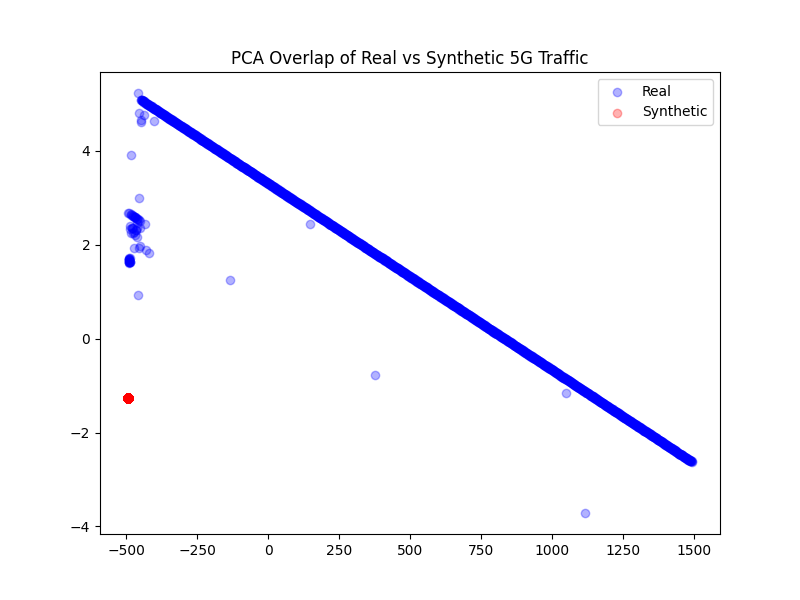
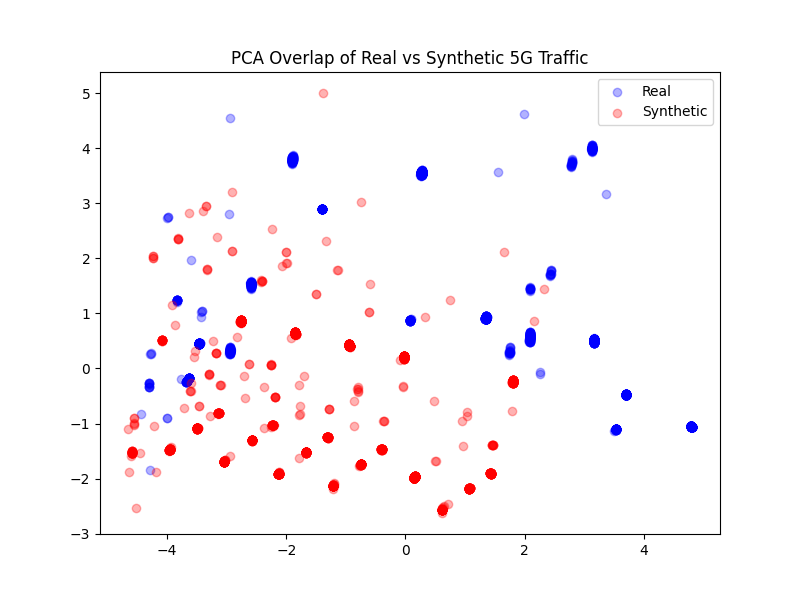
Enhance evaluation pipeline with stratified sampling and logging; add periodic evaluation in training; improve metrics loading in watch_metrics.

diff --git a/src/models/train.py b/src/models/train.py
@@ -220,6 +220,27 @@ class RobustTrainer:
             avg_sup_loss = epoch_sup_loss / len(dataloader)
             logging.info(f"[AE Pretrain {epoch + 1}/{epochs}] - Avg AE_Loss: {avg_ae_loss:.4f} | Avg Sup_Loss: {avg_sup_loss:.4f}")
 
+    def run_periodic_evaluation(self, epoch: int, num_sequences: int, real_sample_size: int):
+        """Generates synthetic data and runs evaluation pipeline at intervals."""
+        if num_sequences <= 0:
+            return
+
+        import sys
+        eval_dir = os.path.abspath(os.path.join(os.path.dirname(__file__), '..', 'evaluation'))
+        if eval_dir not in sys.path:
+            sys.path.append(eval_dir)
+
+        from generate import generate_synthetic_data
+        from evaluate_pipeline import run_evaluation_pipeline
+
+        logging.info(
+            f"Running periodic evaluation at Epoch {epoch + 1} "
+            f"(synthetic sequences: {num_sequences}, real sample: {real_sample_size})"
+        )
+        self.save_checkpoint(epoch=epoch)
+        generate_synthetic_data(num_samples=num_sequences)
+        run_evaluation_pipeline(real_sample_size=real_sample_size)
+
     def train_step(self, real_sequences: torch.Tensor, labels: torch.Tensor, lambda_gp=10.0, n_critic=3):
         """
         Executes one full step of Wasserstein GAN training.
@@ -284,7 +305,19 @@ class RobustTrainer:
         
         return ae_loss.item(), sup_loss.item(), d_loss.item(), g_loss.item(), g_sup_loss.item()
 
-    def fit(self, dataloader, epochs: int, save_interval: int = 5, patience: int = 15, pretrain_epochs: int = 10):
+    def fit(
+        self,
+        dataloader,
+        epochs: int,
+        save_interval: int = 5,
+        patience: int = 15,
+        pretrain_epochs: int = 10,
+        min_epochs: int = 50,
+        min_delta: float = 1e-4,
+        eval_interval: int = 0,
+        eval_num_sequences: int = 1000,
+        eval_real_sample_size: int = 50000
+    ):
         """
         Main training orchestration loop. Includes Graceful Interruption and detailed progress reporting.
         Automates Early Stopping based on WGAN-GP convergence (Discriminator loss nears 0).
@@ -300,7 +333,7 @@ class RobustTrainer:
             with open(metrics_file, 'w') as f:
                 f.write("epoch,ae_loss,sup_loss,d_loss,g_loss,g_sup_loss\n")
                 
-        best_d_loss_val = float('inf')
+        best_composite_score = float('inf')
         patience_counter = 0
         
         if pretrain_epochs > 0 and not resumed and dataloader is not None:
@@ -363,19 +396,33 @@ class RobustTrainer:
                             f"{avg_d_loss:.6f},{avg_g_loss:.6f},{avg_g_sup_loss:.6f}\n"
                         )
                         
-                    # Early Stopping Evaluator (WGAN converges as Discriminator Loss absolute approaches 0)
-                    current_d_loss_val = abs(avg_d_loss)
-                    if current_d_loss_val < best_d_loss_val:
-                        best_d_loss_val = current_d_loss_val
+                    # Early Stopping Evaluator (Composite score: AE + Supervisor + Generator Supervisor)
+                    composite_score = avg_ae_loss + avg_sup_loss + avg_g_sup_loss
+                    if composite_score < (best_composite_score - min_delta):
+                        best_composite_score = composite_score
                         patience_counter = 0
                     else:
-                        patience_counter += 1
-                        logging.info(f"No improvement in Discriminator Loss metric. Patience: {patience_counter}/{patience}")
-                        if patience_counter >= patience:
-                            logging.warning(f"EARLY STOPPING triggered! Network stopped progressing after {epoch + 1} Epochs.")
-                            self.save_checkpoint(epoch=epoch, is_final=True)
-                            break
+                        if (epoch + 1) >= min_epochs:
+                            patience_counter += 1
+                            logging.info(
+                                "No improvement in composite score (AE + Sup + G_Sup). "
+                                f"Patience: {patience_counter}/{patience} (min_delta={min_delta})"
+                            )
+                            if patience_counter >= patience:
+                                logging.warning(
+                                    f"EARLY STOPPING triggered! Network stopped progressing after {epoch + 1} Epochs."
+                                )
+                                self.save_checkpoint(epoch=epoch, is_final=True)
+                                break
+                        else:
+                            logging.info(
+                                f"Warmup active: early stopping disabled until Epoch {min_epochs}."
+                            )
                 
+                # Periodic Evaluation
+                if eval_interval > 0 and (epoch + 1) % eval_interval == 0:
+                    self.run_periodic_evaluation(epoch, eval_num_sequences, eval_real_sample_size)
+
                 # Checkpointing
                 if epoch > 0 and epoch % save_interval == 0:
                     logging.info(f"--> Reached Save Interval. Checkpointing Epoch {epoch}...")
@@ -461,4 +508,15 @@ if __name__ == "__main__":
     # Start training! Set to a massive epoch number (1,000,000) so it runs infinitely 
     # until Early Stopping kicks in or you hit Ctrl+C.
     logging.info("Initiating indefinite training. Will halt automatically via Early Stopping or manual Ctrl+C.")
-    trainer.fit(dataloader=dataloader, epochs=1000000, save_interval=5, patience=25, pretrain_epochs=10)
+    trainer.fit(
+        dataloader=dataloader,
+        epochs=1000000,
+        save_interval=5,
+        patience=25,
+        pretrain_epochs=10,
+        min_epochs=100,
+        min_delta=1e-4,
+        eval_interval=50,
+        eval_num_sequences=1000,
+        eval_real_sample_size=50000
+    )

diff --git a/src/evaluation/evaluate_pipeline.py b/src/evaluation/evaluate_pipeline.py
@@ -2,6 +2,8 @@ import os
 import sys
 import numpy as np
 import logging
+import joblib
+import pandas as pd
 
 logging.basicConfig(level=logging.INFO, format='%(asctime)s - %(levelname)s - %(message)s')
 
@@ -17,7 +19,36 @@ from sequence_generator import SequenceGenerator
 from validators import StatisticalValidators
 from ml_efficacy import MLEfficacyTester
 
-def run_evaluation_pipeline():
+def log_label_distribution(name: str, labels: np.ndarray):
+    vals, counts = np.unique(labels.astype(int), return_counts=True)
+    logging.info(f"{name} label distribution: {dict(zip(vals, counts))}")
+
+def stratified_sample(df: pd.DataFrame, label_col: str, total_samples: int, random_state: int = 42) -> pd.DataFrame:
+    if label_col not in df.columns:
+        logging.warning(f"Label column '{label_col}' missing for stratified sampling. Using full dataset.")
+        return df
+
+    value_counts = df[label_col].value_counts()
+    classes = value_counts.index.tolist()
+    if len(classes) == 0:
+        return df
+
+    per_class = max(1, total_samples // len(classes))
+    parts = []
+    for label in classes:
+        group = df[df[label_col] == label]
+        n = min(per_class, len(group))
+        if n > 0:
+            parts.append(group.sample(n=n, random_state=random_state))
+
+    if not parts:
+        return df
+
+    sampled = pd.concat(parts).sample(frac=1.0, random_state=random_state).reset_index(drop=True)
+    logging.info(f"Stratified sample size: {len(sampled)} (target per class: {per_class})")
+    return sampled
+
+def run_evaluation_pipeline(real_sample_size: int = 50000):
     """
     Loads empirical (real) data and the generated (synthetic) data,
     then runs the full suite of statistical, visual, and ML efficacy tests.
@@ -37,17 +68,31 @@ def run_evaluation_pipeline():
     logging.info("Loading Real 5G-NIDD Data for comparison...")
     real_path = os.path.join(project_root, "data", "raw", "Combined.csv")
     parser = NIDDParser(real_path)
-    df_real = parser.load_data().head(10000) # Sample to match synthetic size roughly
+    df_real = parser.load_data()
     
     preprocessor = DataPreprocessor()
+    # Sample a large random chunk from full dataset for richer class coverage
+    if real_sample_size and real_sample_size > 0:
+        sample_size = min(real_sample_size, len(df_real))
+        df_real = df_real.sample(n=sample_size, random_state=42).reset_index(drop=True)
     df_real_processed = preprocessor.fit_transform(df_real)
+
+    artifact_dir = os.path.join(project_root, "models", "artifacts")
+    feature_columns = joblib.load(os.path.join(artifact_dir, "feature_columns.pkl"))
     
     # Assuming label is the last column or we know its index. 
     # For TSTR, we need X (features) and y (target).
     label_col = 'Attack Type'
-    label_idx = df_real_processed.columns.get_loc(label_col)
+    if label_col not in feature_columns:
+        logging.error("Label column 'Attack Type' missing from feature metadata.")
+        return
+    if list(df_real_processed.columns) != feature_columns:
+        df_real_processed = df_real_processed[feature_columns]
+    label_idx = feature_columns.index(label_col)
     
-    real_data = df_real_processed.values
+    desired_total = min(len(df_real_processed), len(synth_data))
+    df_real_eval = stratified_sample(df_real_processed, label_col, desired_total)
+    real_data = df_real_eval.values
     
     # Ensure shapes match (Truncate if necessary for comparison)
     min_samples = min(len(real_data), len(synth_data))
@@ -55,6 +100,8 @@ def run_evaluation_pipeline():
     synth_data_eval = synth_data[:min_samples]
     
     # 3. Statistical & Visual Validation
+    log_label_distribution("Synthetic", synth_data_eval[:, label_idx])
+    log_label_distribution("Real", real_data_eval[:, label_idx])
     validators = StatisticalValidators()
     
     # We compare features column by column in the latent/scaled space

diff --git a/src/models/watch_metrics.py b/src/models/watch_metrics.py
@@ -18,6 +18,32 @@ def watch_and_plot():
     Background script to constantly read the real-time metrics generated 
     by `train.py` and output an updating graph of the AI's learning curve.
     """
+    min_epoch = 100
+    def load_metrics(metrics_file: str) -> pd.DataFrame:
+        try:
+            df = pd.read_csv(metrics_file)
+        except Exception:
+            df = pd.read_csv(metrics_file, header=None)
+
+        if 'epoch' in df.columns:
+            return df
+
+        df = pd.read_csv(metrics_file, header=None)
+        col_count = df.shape[1]
+
+        if col_count == 3:
+            df.columns = ['epoch', 'd_loss', 'g_loss']
+        elif col_count == 4:
+            df.columns = ['epoch', 'ae_loss', 'd_loss', 'g_loss']
+        elif col_count == 5:
+            df.columns = ['epoch', 'ae_loss', 'sup_loss', 'd_loss', 'g_loss']
+        elif col_count >= 6:
+            df = df.iloc[:, :6]
+            df.columns = ['epoch', 'ae_loss', 'sup_loss', 'd_loss', 'g_loss', 'g_sup_loss']
+        else:
+            df.columns = ['epoch'] + [f"metric_{i}" for i in range(1, col_count)]
+
+        return df
     current_dir = os.path.dirname(os.path.abspath(__file__))
     project_root = os.path.abspath(os.path.join(current_dir, "..", ".."))
     
@@ -50,8 +76,11 @@ def watch_and_plot():
             if current_modified > last_modified:
                 last_modified = current_modified
                 
-                df = pd.read_csv(metrics_path)
+                df = load_metrics(metrics_path)
                 
+                # Filter to show only later epochs
+                df = df[df['epoch'] >= min_epoch]
+
                 # Minimum wait until we have at least 2 points to draw a curve
                 if len(df) < 2:
                     plt.pause(2)

diff --git a/src/models/generate.py b/src/models/generate.py
@@ -42,6 +42,10 @@ def generate_synthetic_data(num_samples: int, seq_len: int = 20, noise_dim: int 
     num_classes = len(categorical_encoders['Attack Type'].classes_)
     input_dim = len(feature_columns)
     categorical_sizes = [len(categorical_encoders[col].classes_) for col in categorical_cols]
+    if "Attack Type" not in feature_columns:
+        logging.error("'Attack Type' column missing from feature metadata.")
+        return
+    attack_type_idx = feature_columns.index("Attack Type")
 
     # 2. Initialize Models
     autoencoder = SequenceAutoencoder(
@@ -72,9 +76,10 @@ def generate_synthetic_data(num_samples: int, seq_len: int = 20, noise_dim: int 
         # Generate random noise
         z = torch.randn(num_samples, seq_len, noise_dim).to(device)
         
-        # Give it random attack classes (or you can force it to generate purely one type!)
-        # e.g., labels = torch.full((num_samples,), 1) to generate purely class 1
-        labels = torch.randint(0, num_classes, (num_samples,)).to(device)
+        # Balanced attack classes to avoid label collapse
+        repeats = (num_samples + num_classes - 1) // num_classes
+        labels = torch.arange(num_classes, device=device).repeat(repeats)[:num_samples]
+        labels = labels[torch.randperm(num_samples, device=device)]
         
         # Pass through Generator to get the 24-Dimensional Latent sequence
         fake_latent_seqs = generator(z, labels)
@@ -106,6 +111,9 @@ def generate_synthetic_data(num_samples: int, seq_len: int = 20, noise_dim: int 
         for idx, col in enumerate(categorical_cols):
             col_idx = feature_columns.index(col)
             full_features[:, :, col_idx] = fake_cat_indices[idx].float()
+
+        # Force Attack Type to match the conditioning label
+        full_features[:, :, attack_type_idx] = labels.unsqueeze(1).expand(-1, seq_len).float()
 
     # 5. Inverse Transform (Convert back to Pandas DataFrame)
     # The neural network outputs 3D tensors (Samples, Seq_Len, Features)